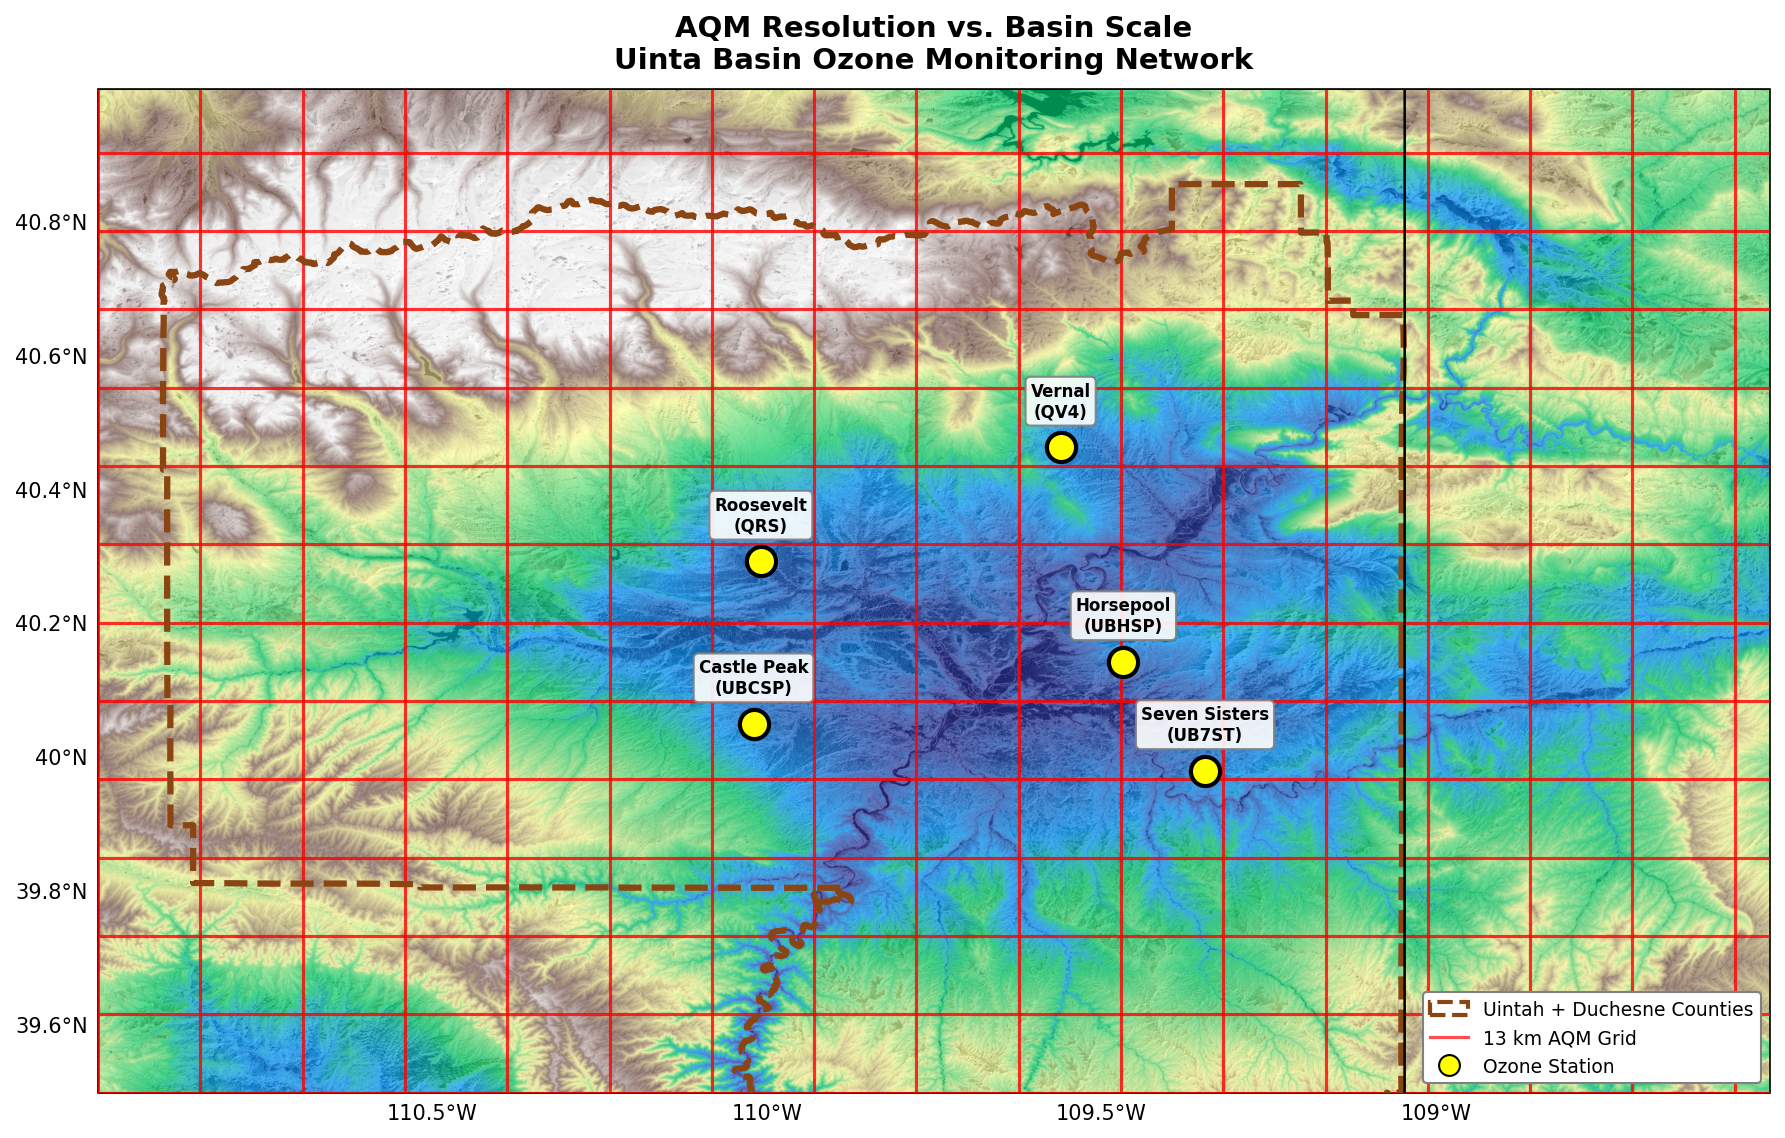
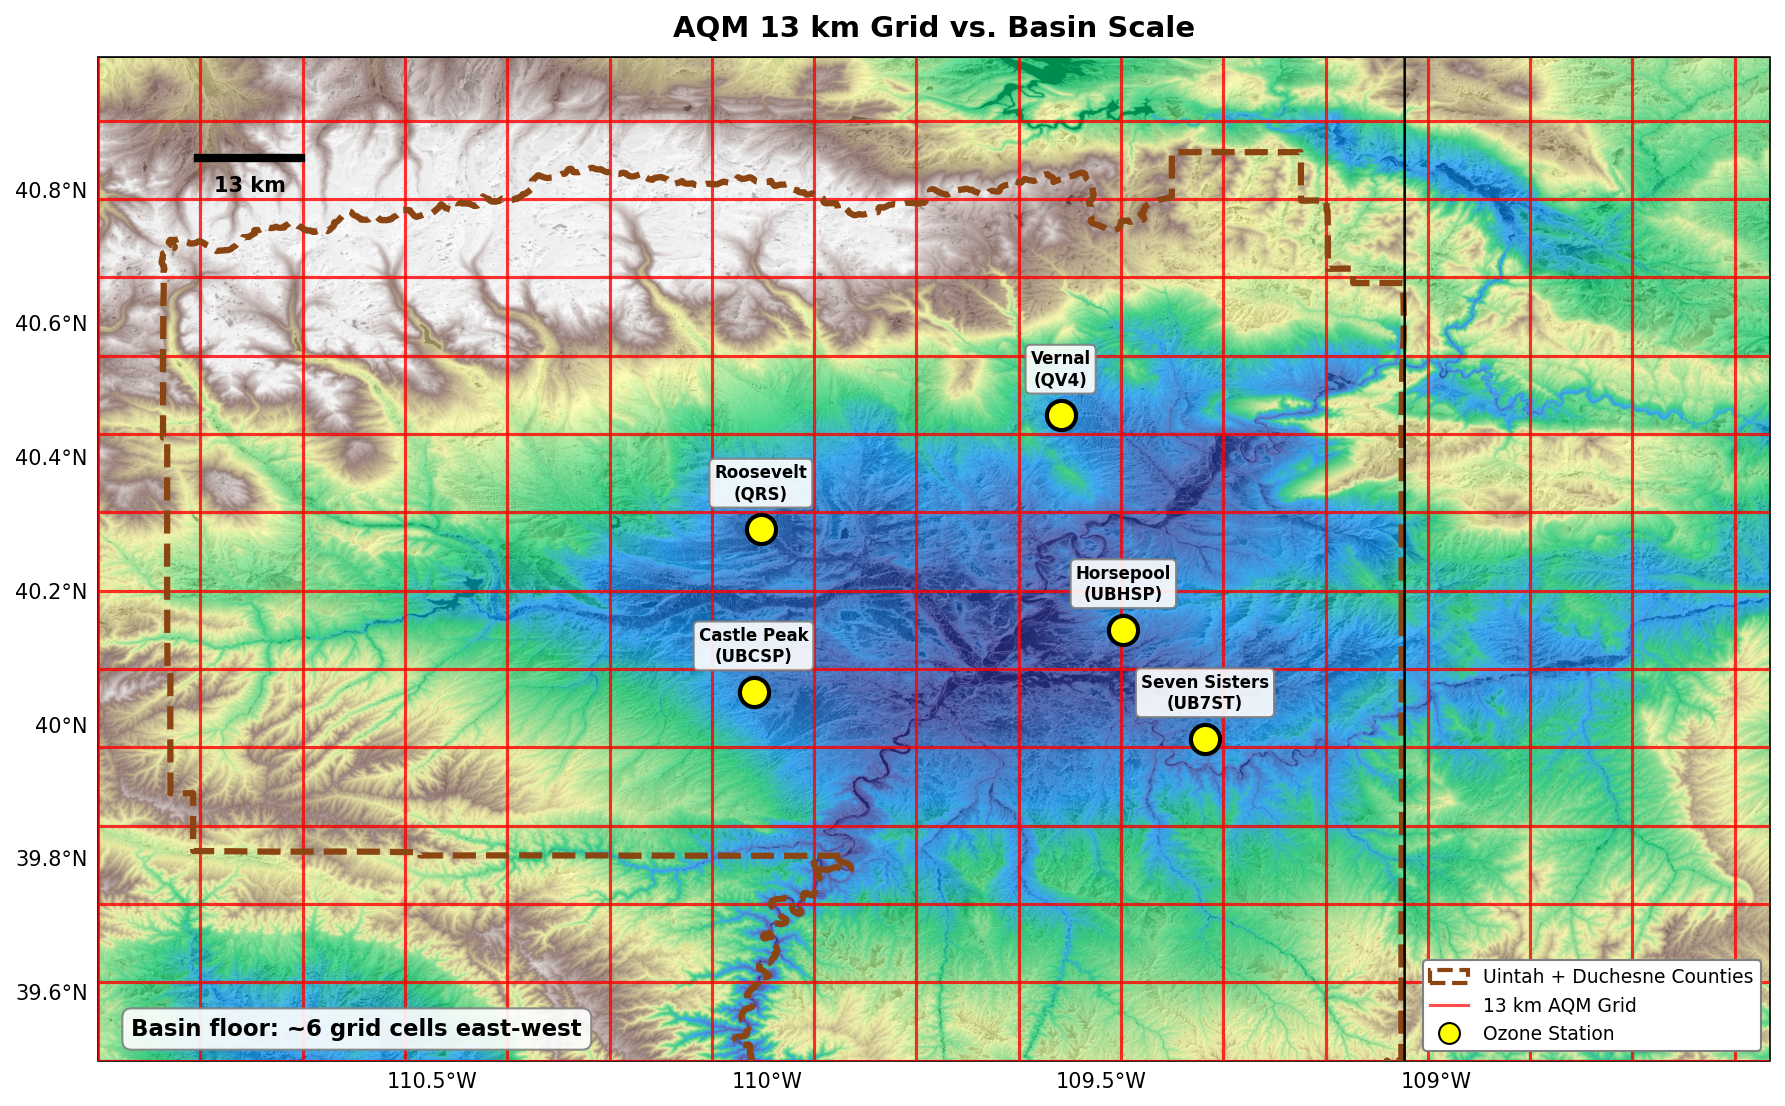
Add scale bar and annotation to resolution map

diff --git a/src/plot_resolution_scale.py b/src/plot_resolution_scale.py
@@ -145,6 +145,15 @@ def main():
                 color='red', alpha=0.8, linewidth=1.5,
                 transform=ccrs.PlateCarree(), zorder=4)
 
+    # Scale bar (upper-left, showing 13 km = one grid cell)
+    scale_lon = LON_MIN + 0.15
+    scale_lat = LAT_MAX - 0.15
+    ax.plot([scale_lon, scale_lon + GRID_DEG_LON], [scale_lat, scale_lat],
+            color='black', linewidth=4, transform=ccrs.PlateCarree(), zorder=10)
+    ax.text(scale_lon + GRID_DEG_LON / 2, scale_lat - 0.05, '13 km',
+            ha='center', fontsize=10, fontweight='bold',
+            transform=ccrs.PlateCarree(), zorder=10)
+
     # Basin outline
     basin_gdf = get_basin_boundary()
     basin_feature = ShapelyFeature(
@@ -201,9 +210,16 @@ def main():
     gl.xlabel_style = {'fontsize': 10}
     gl.ylabel_style = {'fontsize': 10}
 
+    # Grid cell count annotation (lower-left)
+    ax.text(0.02, 0.02, 'Basin floor: ~6 grid cells east-west',
+            transform=ax.transAxes, fontsize=11, fontweight='bold',
+            verticalalignment='bottom',
+            bbox=dict(facecolor='white', edgecolor='gray', alpha=0.9,
+                      boxstyle='round,pad=0.4'), zorder=20)
+
     # Title
     ax.set_title(
-        'AQM Resolution vs. Basin Scale\nUinta Basin Ozone Monitoring Network',
+        'AQM 13 km Grid vs. Basin Scale',
         fontsize=14, fontweight='bold', pad=10
     )
 

diff --git a/src/compare_gfs_snow.py b/src/compare_gfs_snow.py
@@ -267,7 +267,7 @@ def create_scatter_plot(df: pl.DataFrame) -> None:
     pct_under = np.sum(error < 0) / len(error) * 100
 
     # Create figure
-    fig, ax = plt.subplots(figsize=(8, 8))
+    fig, ax = plt.subplots(figsize=(12, 10))
 
     # Scatter plot
     ax.scatter(obs, gfs, alpha=0.4, s=30, c='steelblue', edgecolors='none')
